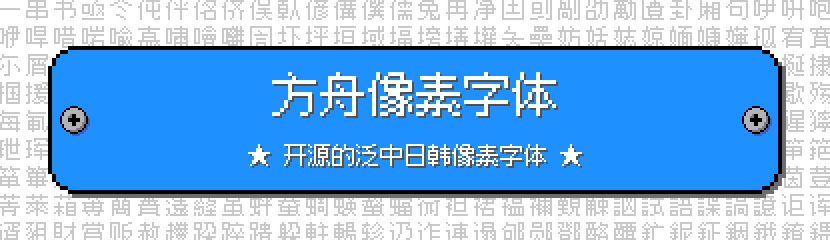
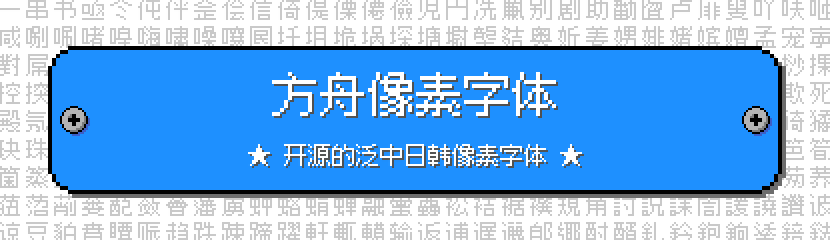
2025.03.14

diff --git a/tools/configs/__init__.py b/tools/configs/__init__.py
@@ -2,7 +2,7 @@ from typing import Literal, get_args
 
 from tools.configs import path_define
 
-version = '2025.01.06'
+version = '2025.03.14'
 
 type FontSize = Literal[10, 12, 16]
 font_sizes = list[FontSize](get_args(FontSize.__value__))

diff --git a/docs/info-12px-monospaced.md b/docs/info-12px-monospaced.md
@@ -4,8 +4,8 @@
 
 | 属性 | 值 |
 |---|---|
-| 版本号 | 2025.01.06 |
-| 字符总数 | 18481 |
+| 版本号 | 2025.03.14 |
+| 字符总数 | 18517 |
 
 ## Unicode 字符分布
 
@@ -21,7 +21,7 @@ Unicode 版本：16.0.0
 | 0400 ~ 04FF | Cyrillic | 西里尔 | 78 / 256 | 178 | 30.47% 🚧 |
 | 2000 ~ 206F | General Punctuation | 通用标点 | 33 / 71 | 38 | 46.48% 🚧 |
 | 2070 ~ 209F | Superscripts and Subscripts | 上标与下标 | 42 / 42 | 0 | 100.00% 🚩 |
-| 2100 ~ 214F | Letterlike Symbols | 类字符号 | 9 / 80 | 71 | 11.25% 🚧 |
+| 2100 ~ 214F | Letterlike Symbols | 字母式符号 | 9 / 80 | 71 | 11.25% 🚧 |
 | 2150 ~ 218F | Number Forms | 数字形式 | 60 / 60 | 0 | 100.00% 🚩 |
 | 2190 ~ 21FF | Arrows | 箭头 | 112 / 112 | 0 | 100.00% 🚩 |
 | 2300 ~ 23FF | Miscellaneous Technical | 各式技术符号 | 43 / 256 | 213 | 16.80% 🚧 |
@@ -42,13 +42,13 @@ Unicode 版本：16.0.0
 | 3130 ~ 318F | Hangul Compatibility Jamo | 谚文兼容字母 | 94 / 94 | 0 | 100.00% 🚩 |
 | 3200 ~ 32FF | Enclosed CJK Letters and Months | 包围中日韩字母与月份 | 92 / 255 | 163 | 36.08% 🚧 |
 | 3300 ~ 33FF | CJK Compatibility | 中日韩兼容 | 60 / 256 | 196 | 23.44% 🚧 |
-| 3400 ~ 4DBF | CJK Unified Ideographs Extension A | 中日韩统一表意文字扩充 A | 54 / 6592 | 6538 | 0.82% 🚧 |
-| 4E00 ~ 9FFF | CJK Unified Ideographs | 中日韩统一表意文字 | 15742 / 20992 | 5250 | 74.99% 🚧 |
+| 3400 ~ 4DBF | CJK Unified Ideographs Extension A | 中日韩统一表意文字扩充 A | 56 / 6592 | 6536 | 0.85% 🚧 |
+| 4E00 ~ 9FFF | CJK Unified Ideographs | 中日韩统一表意文字 | 15775 / 20992 | 5217 | 75.15% 🚧 |
 | FE10 ~ FE1F | Vertical Forms | 竖排形式 | 10 / 10 | 0 | 100.00% 🚩 |
 | FE30 ~ FE4F | CJK Compatibility Forms | 中日韩兼容形式 | 32 / 32 | 0 | 100.00% 🚩 |
 | FF00 ~ FFEF | Halfwidth and Fullwidth Forms | 半宽与全宽形式 | 173 / 225 | 52 | 76.89% 🚧 |
 | FFF0 ~ FFFF | Specials | 特殊 | 2 / 2 | 0 | 100.00% 🚩 |
-| 20000 ~ 2A6DF | CJK Unified Ideographs Extension B | 中日韩统一表意文字扩充 B | 20 / 42720 | 42700 | 0.05% 🚧 |
+| 20000 ~ 2A6DF | CJK Unified Ideographs Extension B | 中日韩统一表意文字扩充 B | 21 / 42720 | 42699 | 0.05% 🚧 |
 | 2A700 ~ 2B73F | CJK Unified Ideographs Extension C | 中日韩统一表意文字扩充 C | 1 / 4154 | 4153 | 0.02% 🚧 |
 | 2B740 ~ 2B81F | CJK Unified Ideographs Extension D | 中日韩统一表意文字扩充 D | 1 / 222 | 221 | 0.45% 🚧 |
 | 2B820 ~ 2CEAF | CJK Unified Ideographs Extension E | 中日韩统一表意文字扩充 E | 1 / 5762 | 5761 | 0.02% 🚧 |
@@ -60,10 +60,10 @@ Unicode 版本：16.0.0
 
 | 区块名称 | 完成数 | 缺失数 | 进度 |
 |---|---:|---:|---:|
-| 一级汉字 | 3299 / 3755 | 456 | 87.86% 🚧 |
-| 二级汉字 | 2358 / 3008 | 650 | 78.39% 🚧 |
+| 一级汉字 | 3307 / 3755 | 448 | 88.07% 🚧 |
+| 二级汉字 | 2362 / 3008 | 646 | 78.52% 🚧 |
 | 其他字符 | 651 / 682 | 31 | 95.45% 🚧 |
-| 总计 | 6308 / 7445 | 1137 | 84.73% 🚧 |
+| 总计 | 6320 / 7445 | 1125 | 84.89% 🚧 |
 
 ## Big5 字符分布
 
@@ -71,10 +71,10 @@ Unicode 版本：16.0.0
 
 | 区块名称 | 完成数 | 缺失数 | 进度 |
 |---|---:|---:|---:|
-| 常用汉字 | 4343 / 5401 | 1058 | 80.41% 🚧 |
-| 次常用汉字 | 5494 / 7652 | 2158 | 71.80% 🚧 |
+| 常用汉字 | 4350 / 5401 | 1051 | 80.54% 🚧 |
+| 次常用汉字 | 5504 / 7652 | 2148 | 71.93% 🚧 |
 | 其他字符 | 342 / 408 | 66 | 83.82% 🚧 |
-| 总计 | 10179 / 13461 | 3282 | 75.62% 🚧 |
+| 总计 | 10196 / 13461 | 3265 | 75.74% 🚧 |
 
 ## Shift-JIS 字符分布
 
@@ -85,8 +85,8 @@ Unicode 版本：16.0.0
 | 单字节-ASCII可打印字符 | 95 / 95 | 0 | 100.00% 🚩 |
 | 单字节-半角片假名 | 63 / 63 | 0 | 100.00% 🚩 |
 | 双字节-其他字符 | 492 / 524 | 32 | 93.89% 🚧 |
-| 双字节-汉字 | 5022 / 6355 | 1333 | 79.02% 🚧 |
-| 总计 | 5672 / 7037 | 1365 | 80.60% 🚧 |
+| 双字节-汉字 | 5034 / 6355 | 1321 | 79.21% 🚧 |
+| 总计 | 5684 / 7037 | 1353 | 80.77% 🚧 |
 
 ## KS-X-1001 字符分布
 
@@ -95,6 +95,6 @@ Unicode 版本：16.0.0
 | 区块名称 | 完成数 | 缺失数 | 进度 |
 |---|---:|---:|---:|
 | 谚文音节 | 0 / 2350 | 2350 | 0.00% 🚧 |
-| 汉字 | 3729 / 4888 | 1159 | 76.29% 🚧 |
+| 汉字 | 3735 / 4888 | 1153 | 76.41% 🚧 |
 | 其他字符 | 786 / 988 | 202 | 79.55% 🚧 |
-| 总计 | 4515 / 8226 | 3711 | 54.89% 🚧 |
+| 总计 | 4521 / 8226 | 3705 | 54.96% 🚧 |

diff --git a/docs/info-12px-proportional.md b/docs/info-12px-proportional.md
@@ -4,8 +4,8 @@
 
 | 属性 | 值 |
 |---|---|
-| 版本号 | 2025.01.06 |
-| 字符总数 | 18481 |
+| 版本号 | 2025.03.14 |
+| 字符总数 | 18517 |
 
 ## Unicode 字符分布
 
@@ -21,7 +21,7 @@ Unicode 版本：16.0.0
 | 0400 ~ 04FF | Cyrillic | 西里尔 | 78 / 256 | 178 | 30.47% 🚧 |
 | 2000 ~ 206F | General Punctuation | 通用标点 | 33 / 71 | 38 | 46.48% 🚧 |
 | 2070 ~ 209F | Superscripts and Subscripts | 上标与下标 | 42 / 42 | 0 | 100.00% 🚩 |
-| 2100 ~ 214F | Letterlike Symbols | 类字符号 | 9 / 80 | 71 | 11.25% 🚧 |
+| 2100 ~ 214F | Letterlike Symbols | 字母式符号 | 9 / 80 | 71 | 11.25% 🚧 |
 | 2150 ~ 218F | Number Forms | 数字形式 | 60 / 60 | 0 | 100.00% 🚩 |
 | 2190 ~ 21FF | Arrows | 箭头 | 112 / 112 | 0 | 100.00% 🚩 |
 | 2300 ~ 23FF | Miscellaneous Technical | 各式技术符号 | 43 / 256 | 213 | 16.80% 🚧 |
@@ -42,13 +42,13 @@ Unicode 版本：16.0.0
 | 3130 ~ 318F | Hangul Compatibility Jamo | 谚文兼容字母 | 94 / 94 | 0 | 100.00% 🚩 |
 | 3200 ~ 32FF | Enclosed CJK Letters and Months | 包围中日韩字母与月份 | 92 / 255 | 163 | 36.08% 🚧 |
 | 3300 ~ 33FF | CJK Compatibility | 中日韩兼容 | 60 / 256 | 196 | 23.44% 🚧 |
-| 3400 ~ 4DBF | CJK Unified Ideographs Extension A | 中日韩统一表意文字扩充 A | 54 / 6592 | 6538 | 0.82% 🚧 |
-| 4E00 ~ 9FFF | CJK Unified Ideographs | 中日韩统一表意文字 | 15742 / 20992 | 5250 | 74.99% 🚧 |
+| 3400 ~ 4DBF | CJK Unified Ideographs Extension A | 中日韩统一表意文字扩充 A | 56 / 6592 | 6536 | 0.85% 🚧 |
+| 4E00 ~ 9FFF | CJK Unified Ideographs | 中日韩统一表意文字 | 15775 / 20992 | 5217 | 75.15% 🚧 |
 | FE10 ~ FE1F | Vertical Forms | 竖排形式 | 10 / 10 | 0 | 100.00% 🚩 |
 | FE30 ~ FE4F | CJK Compatibility Forms | 中日韩兼容形式 | 32 / 32 | 0 | 100.00% 🚩 |
 | FF00 ~ FFEF | Halfwidth and Fullwidth Forms | 半宽与全宽形式 | 173 / 225 | 52 | 76.89% 🚧 |
 | FFF0 ~ FFFF | Specials | 特殊 | 2 / 2 | 0 | 100.00% 🚩 |
-| 20000 ~ 2A6DF | CJK Unified Ideographs Extension B | 中日韩统一表意文字扩充 B | 20 / 42720 | 42700 | 0.05% 🚧 |
+| 20000 ~ 2A6DF | CJK Unified Ideographs Extension B | 中日韩统一表意文字扩充 B | 21 / 42720 | 42699 | 0.05% 🚧 |
 | 2A700 ~ 2B73F | CJK Unified Ideographs Extension C | 中日韩统一表意文字扩充 C | 1 / 4154 | 4153 | 0.02% 🚧 |
 | 2B740 ~ 2B81F | CJK Unified Ideographs Extension D | 中日韩统一表意文字扩充 D | 1 / 222 | 221 | 0.45% 🚧 |
 | 2B820 ~ 2CEAF | CJK Unified Ideographs Extension E | 中日韩统一表意文字扩充 E | 1 / 5762 | 5761 | 0.02% 🚧 |
@@ -60,10 +60,10 @@ Unicode 版本：16.0.0
 
 | 区块名称 | 完成数 | 缺失数 | 进度 |
 |---|---:|---:|---:|
-| 一级汉字 | 3299 / 3755 | 456 | 87.86% 🚧 |
-| 二级汉字 | 2358 / 3008 | 650 | 78.39% 🚧 |
+| 一级汉字 | 3307 / 3755 | 448 | 88.07% 🚧 |
+| 二级汉字 | 2362 / 3008 | 646 | 78.52% 🚧 |
 | 其他字符 | 651 / 682 | 31 | 95.45% 🚧 |
-| 总计 | 6308 / 7445 | 1137 | 84.73% 🚧 |
+| 总计 | 6320 / 7445 | 1125 | 84.89% 🚧 |
 
 ## Big5 字符分布
 
@@ -71,10 +71,10 @@ Unicode 版本：16.0.0
 
 | 区块名称 | 完成数 | 缺失数 | 进度 |
 |---|---:|---:|---:|
-| 常用汉字 | 4343 / 5401 | 1058 | 80.41% 🚧 |
-| 次常用汉字 | 5494 / 7652 | 2158 | 71.80% 🚧 |
+| 常用汉字 | 4350 / 5401 | 1051 | 80.54% 🚧 |
+| 次常用汉字 | 5504 / 7652 | 2148 | 71.93% 🚧 |
 | 其他字符 | 342 / 408 | 66 | 83.82% 🚧 |
-| 总计 | 10179 / 13461 | 3282 | 75.62% 🚧 |
+| 总计 | 10196 / 13461 | 3265 | 75.74% 🚧 |
 
 ## Shift-JIS 字符分布
 
@@ -85,8 +85,8 @@ Unicode 版本：16.0.0
 | 单字节-ASCII可打印字符 | 95 / 95 | 0 | 100.00% 🚩 |
 | 单字节-半角片假名 | 63 / 63 | 0 | 100.00% 🚩 |
 | 双字节-其他字符 | 492 / 524 | 32 | 93.89% 🚧 |
-| 双字节-汉字 | 5022 / 6355 | 1333 | 79.02% 🚧 |
-| 总计 | 5672 / 7037 | 1365 | 80.60% 🚧 |
+| 双字节-汉字 | 5034 / 6355 | 1321 | 79.21% 🚧 |
+| 总计 | 5684 / 7037 | 1353 | 80.77% 🚧 |
 
 ## KS-X-1001 字符分布
 
@@ -95,6 +95,6 @@ Unicode 版本：16.0.0
 | 区块名称 | 完成数 | 缺失数 | 进度 |
 |---|---:|---:|---:|
 | 谚文音节 | 0 / 2350 | 2350 | 0.00% 🚧 |
-| 汉字 | 3729 / 4888 | 1159 | 76.29% 🚧 |
+| 汉字 | 3735 / 4888 | 1153 | 76.41% 🚧 |
 | 其他字符 | 786 / 988 | 202 | 79.55% 🚧 |
-| 总计 | 4515 / 8226 | 3711 | 54.89% 🚧 |
+| 总计 | 4521 / 8226 | 3705 | 54.96% 🚧 |

diff --git a/docs/info-10px-monospaced.md b/docs/info-10px-monospaced.md
@@ -4,7 +4,7 @@
 
 | 属性 | 值 |
 |---|---|
-| 版本号 | 2025.01.06 |
+| 版本号 | 2025.03.14 |
 | 字符总数 | 3249 |
 
 ## Unicode 字符分布
@@ -19,7 +19,7 @@ Unicode 版本：16.0.0
 | 0180 ~ 024F | Latin Extended-B | 拉丁扩充-B | 32 / 208 | 176 | 15.38% 🚧 |
 | 2000 ~ 206F | General Punctuation | 通用标点 | 33 / 71 | 38 | 46.48% 🚧 |
 | 2070 ~ 209F | Superscripts and Subscripts | 上标与下标 | 42 / 42 | 0 | 100.00% 🚩 |
-| 2100 ~ 214F | Letterlike Symbols | 类字符号 | 9 / 80 | 71 | 11.25% 🚧 |
+| 2100 ~ 214F | Letterlike Symbols | 字母式符号 | 9 / 80 | 71 | 11.25% 🚧 |
 | 2150 ~ 218F | Number Forms | 数字形式 | 60 / 60 | 0 | 100.00% 🚩 |
 | 2190 ~ 21FF | Arrows | 箭头 | 112 / 112 | 0 | 100.00% 🚩 |
 | 2300 ~ 23FF | Miscellaneous Technical | 各式技术符号 | 43 / 256 | 213 | 16.80% 🚧 |

diff --git a/docs/info-10px-proportional.md b/docs/info-10px-proportional.md
@@ -4,7 +4,7 @@
 
 | 属性 | 值 |
 |---|---|
-| 版本号 | 2025.01.06 |
+| 版本号 | 2025.03.14 |
 | 字符总数 | 3398 |
 
 ## Unicode 字符分布
@@ -21,7 +21,7 @@ Unicode 版本：16.0.0
 | 0400 ~ 04FF | Cyrillic | 西里尔 | 78 / 256 | 178 | 30.47% 🚧 |
 | 2000 ~ 206F | General Punctuation | 通用标点 | 33 / 71 | 38 | 46.48% 🚧 |
 | 2070 ~ 209F | Superscripts and Subscripts | 上标与下标 | 42 / 42 | 0 | 100.00% 🚩 |
-| 2100 ~ 214F | Letterlike Symbols | 类字符号 | 9 / 80 | 71 | 11.25% 🚧 |
+| 2100 ~ 214F | Letterlike Symbols | 字母式符号 | 9 / 80 | 71 | 11.25% 🚧 |
 | 2150 ~ 218F | Number Forms | 数字形式 | 60 / 60 | 0 | 100.00% 🚩 |
 | 2190 ~ 21FF | Arrows | 箭头 | 112 / 112 | 0 | 100.00% 🚩 |
 | 2300 ~ 23FF | Miscellaneous Technical | 各式技术符号 | 43 / 256 | 213 | 16.80% 🚧 |

diff --git a/docs/info-16px-monospaced.md b/docs/info-16px-monospaced.md
@@ -4,7 +4,7 @@
 
 | 属性 | 值 |
 |---|---|
-| 版本号 | 2025.01.06 |
+| 版本号 | 2025.03.14 |
 | 字符总数 | 2384 |
 
 ## Unicode 字符分布
@@ -21,7 +21,7 @@ Unicode 版本：16.0.0
 | 0400 ~ 04FF | Cyrillic | 西里尔 | 78 / 256 | 178 | 30.47% 🚧 |
 | 2000 ~ 206F | General Punctuation | 通用标点 | 33 / 71 | 38 | 46.48% 🚧 |
 | 2070 ~ 209F | Superscripts and Subscripts | 上标与下标 | 42 / 42 | 0 | 100.00% 🚩 |
-| 2100 ~ 214F | Letterlike Symbols | 类字符号 | 9 / 80 | 71 | 11.25% 🚧 |
+| 2100 ~ 214F | Letterlike Symbols | 字母式符号 | 9 / 80 | 71 | 11.25% 🚧 |
 | 2150 ~ 218F | Number Forms | 数字形式 | 60 / 60 | 0 | 100.00% 🚩 |
 | 2190 ~ 21FF | Arrows | 箭头 | 112 / 112 | 0 | 100.00% 🚩 |
 | 2300 ~ 23FF | Miscellaneous Technical | 各式技术符号 | 43 / 256 | 213 | 16.80% 🚧 |

diff --git a/docs/info-16px-proportional.md b/docs/info-16px-proportional.md
@@ -4,7 +4,7 @@
 
 | 属性 | 值 |
 |---|---|
-| 版本号 | 2025.01.06 |
+| 版本号 | 2025.03.14 |
 | 字符总数 | 2384 |
 
 ## Unicode 字符分布
@@ -21,7 +21,7 @@ Unicode 版本：16.0.0
 | 0400 ~ 04FF | Cyrillic | 西里尔 | 78 / 256 | 178 | 30.47% 🚧 |
 | 2000 ~ 206F | General Punctuation | 通用标点 | 33 / 71 | 38 | 46.48% 🚧 |
 | 2070 ~ 209F | Superscripts and Subscripts | 上标与下标 | 42 / 42 | 0 | 100.00% 🚩 |
-| 2100 ~ 214F | Letterlike Symbols | 类字符号 | 9 / 80 | 71 | 11.25% 🚧 |
+| 2100 ~ 214F | Letterlike Symbols | 字母式符号 | 9 / 80 | 71 | 11.25% 🚧 |
 | 2150 ~ 218F | Number Forms | 数字形式 | 60 / 60 | 0 | 100.00% 🚩 |
 | 2190 ~ 21FF | Arrows | 箭头 | 112 / 112 | 0 | 100.00% 🚩 |
 | 2300 ~ 23FF | Miscellaneous Technical | 各式技术符号 | 43 / 256 | 213 | 16.80% 🚧 |
